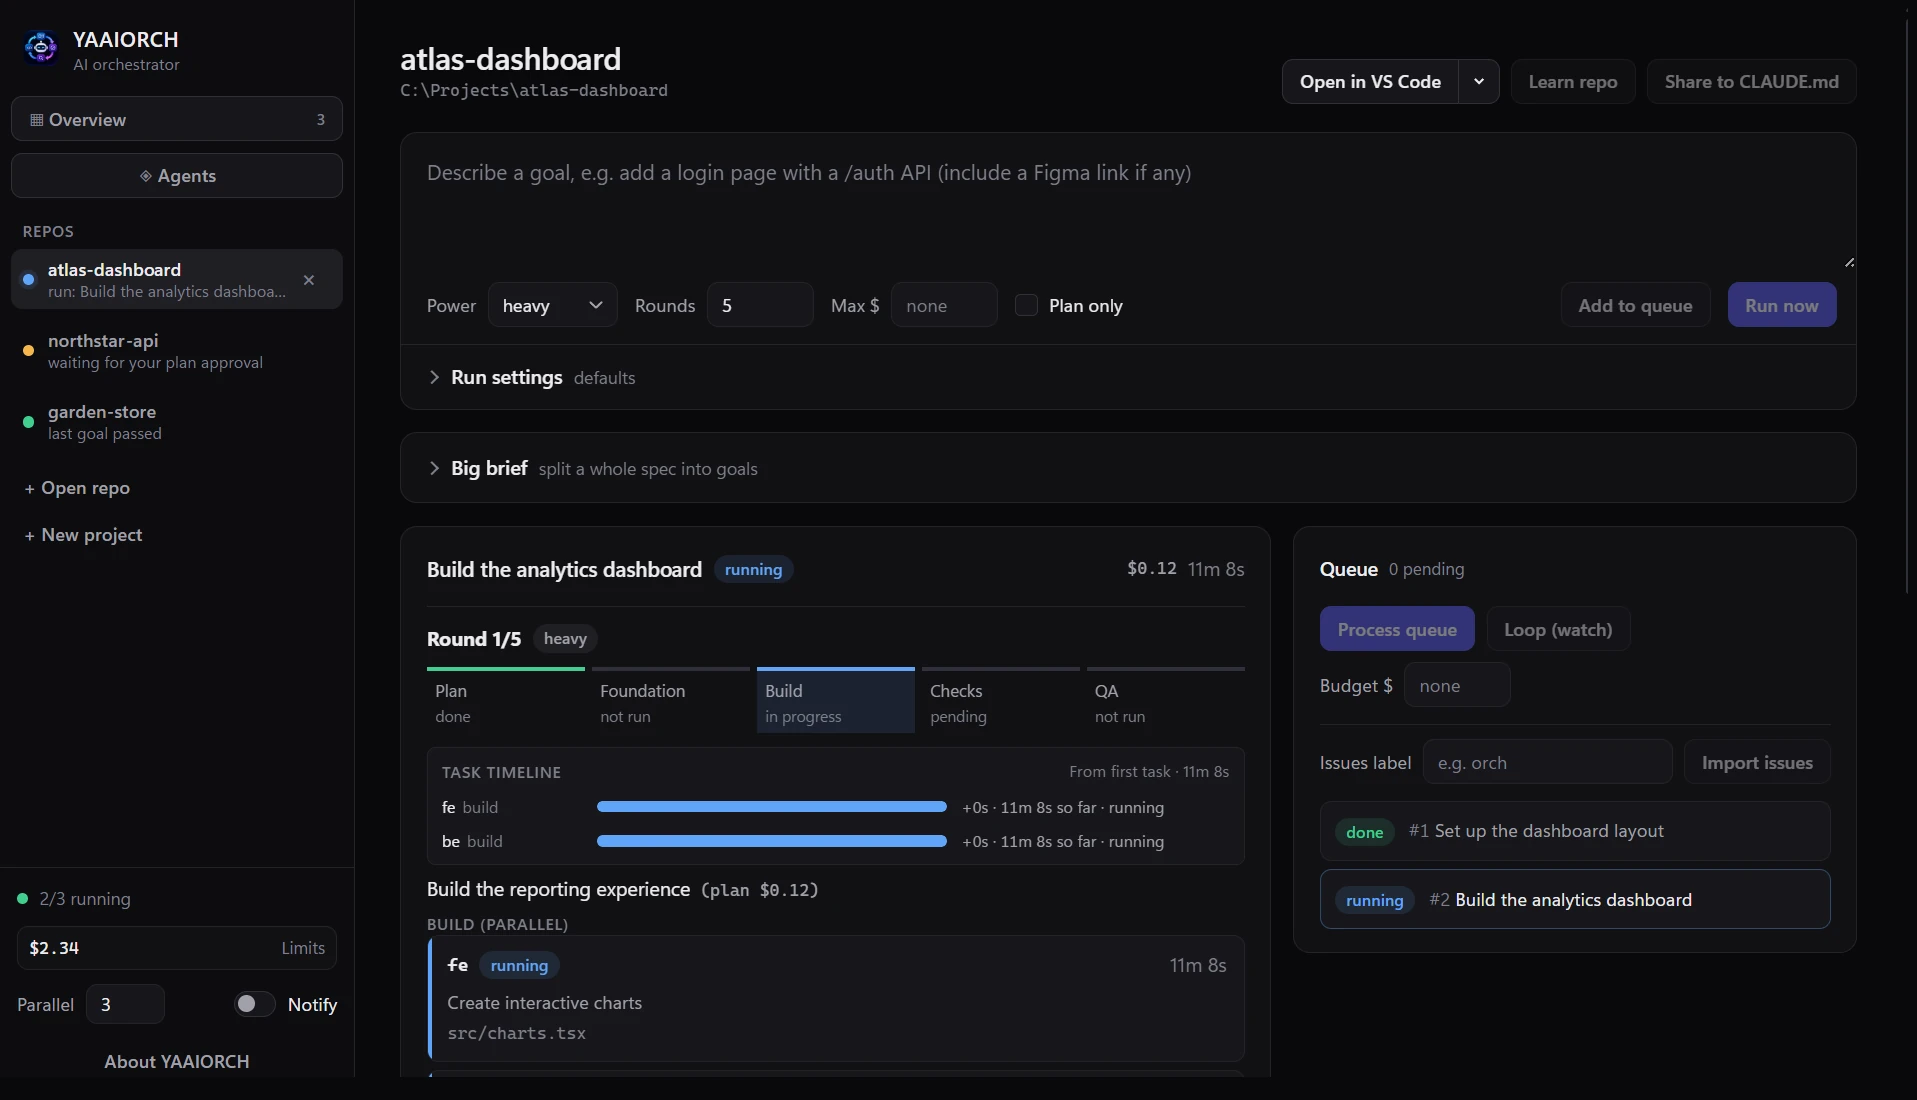
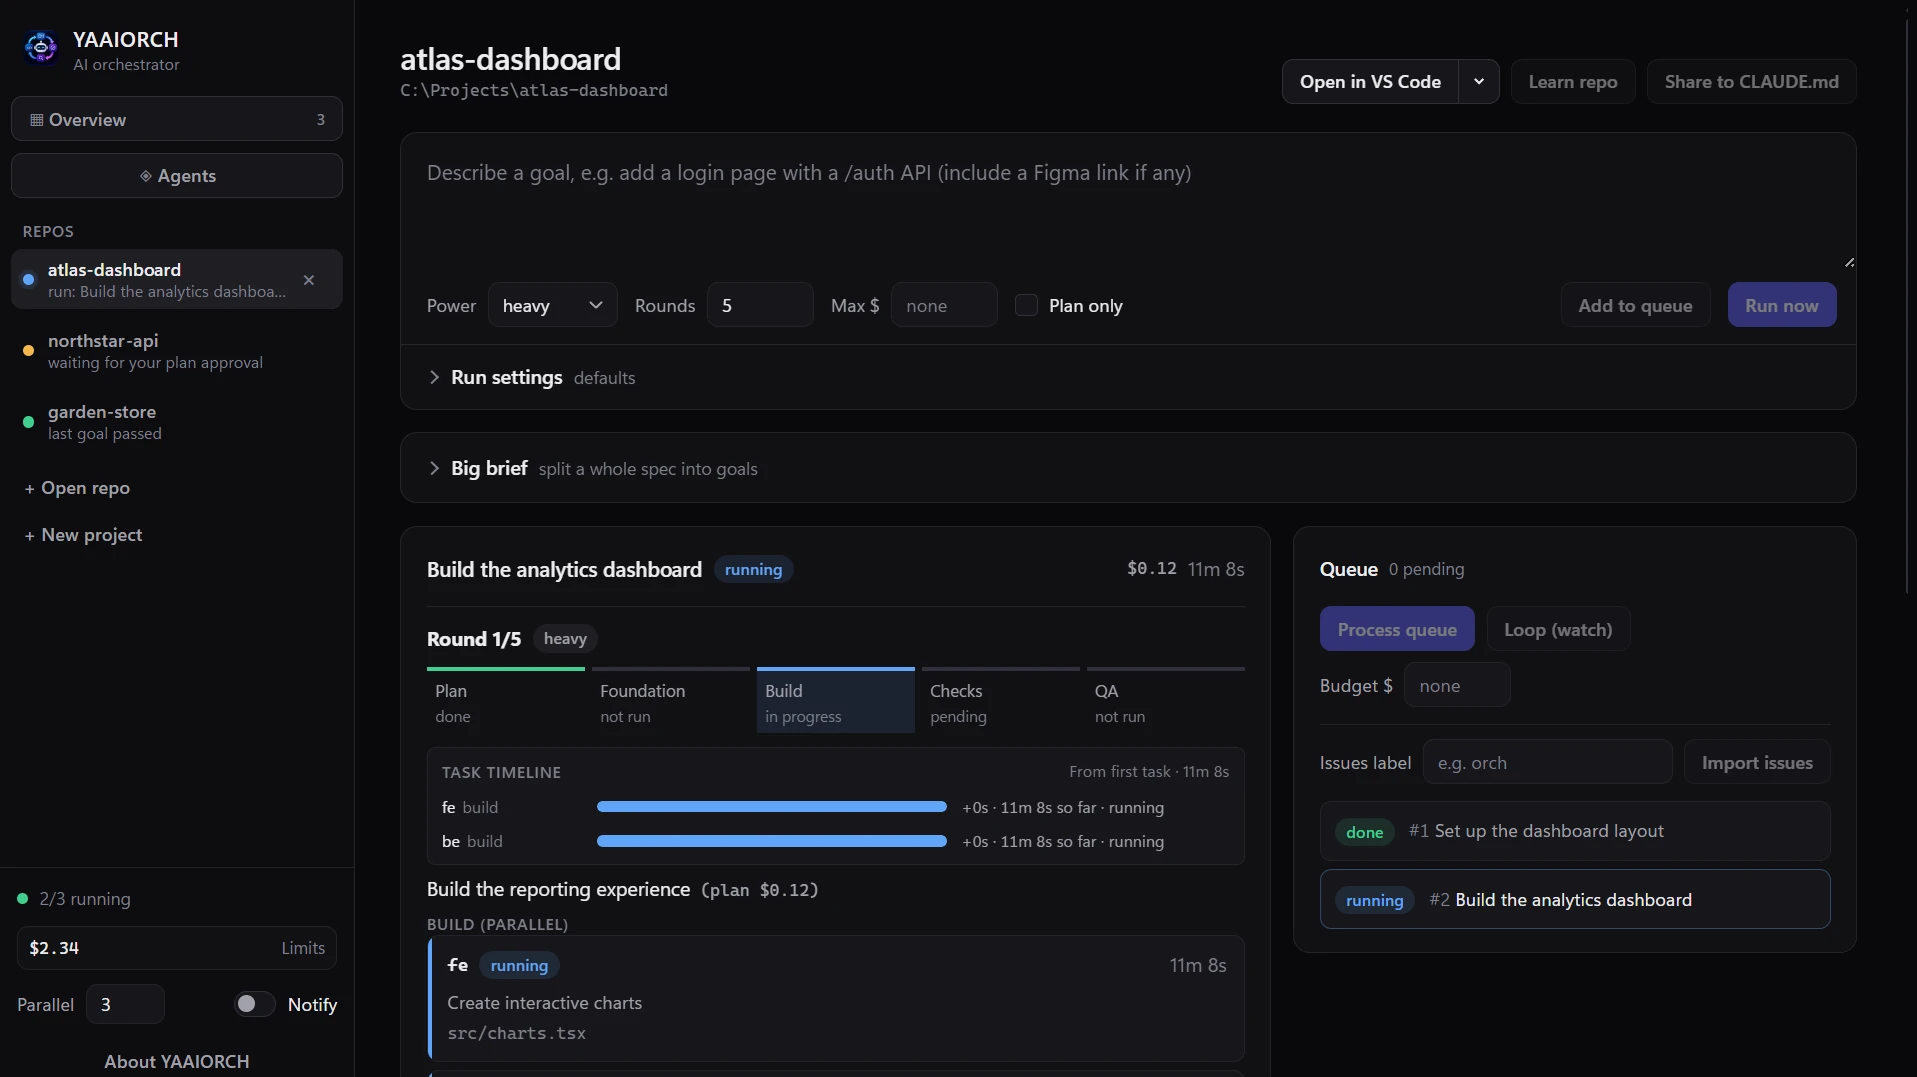
Fixes on landing

diff --git a/docs/index.html b/docs/index.html
@@ -833,7 +833,7 @@
             <img
               src="assets/app-run.webp"
               width="1917"
-              height="1100"
+              height="1077"
               loading="lazy"
               decoding="async"
               alt="The YAAIORCH app showing a simulated run with phase and parallel task timelines, agent activity, and a queue of goals."
@@ -846,7 +846,7 @@
             <img
               src="assets/app-board.webp"
               width="1917"
-              height="1100"
+              height="1077"
               loading="lazy"
               decoding="async"
               alt="The YAAIORCH Overview showing three simulated projects and a work board with working, needs you, in review, and done cards."

diff --git a/evals/reference/web-dashboard-bug/public/styles.css b/evals/reference/web-dashboard-bug/public/styles.css
@@ -146,3 +146,11 @@ body {
   padding: 10px 12px;
   border-top: 1px solid var(--border);
 }
+
+@media (max-width: 480px) {
+  .data-table th,
+  .data-table td {
+    padding: 8px 4px;
+    font-size: 14px;
+  }
+}

diff --git a/CHANGELOG.md b/CHANGELOG.md
@@ -8,6 +8,7 @@ and the project uses [semantic versioning](https://semver.org/) (0.x: anything m
 ### Fixed
 - CI typechecking and scenario tests now account for supported Node.js APIs, parallel agent ordering, worktree paths, and slower test runners.
 - Normalize planned paths across platforms and report a missing GitHub CLI consistently on Linux and macOS.
+- Keep the dashboard eval reference within mobile viewports across platform fonts.
 
 ## [0.5.4] - 2026-11-16
 
